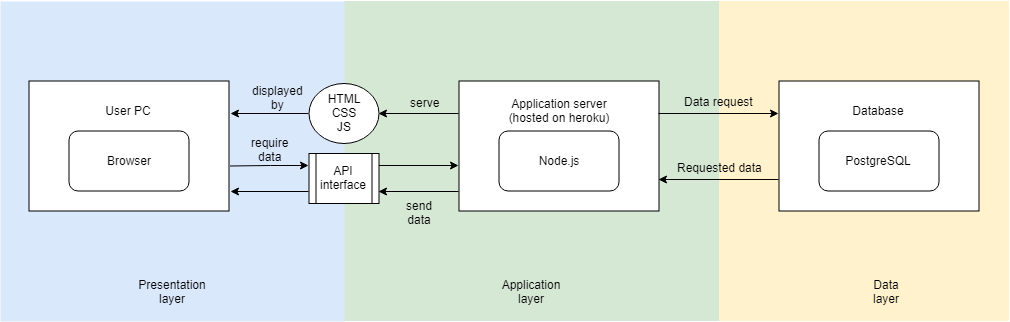
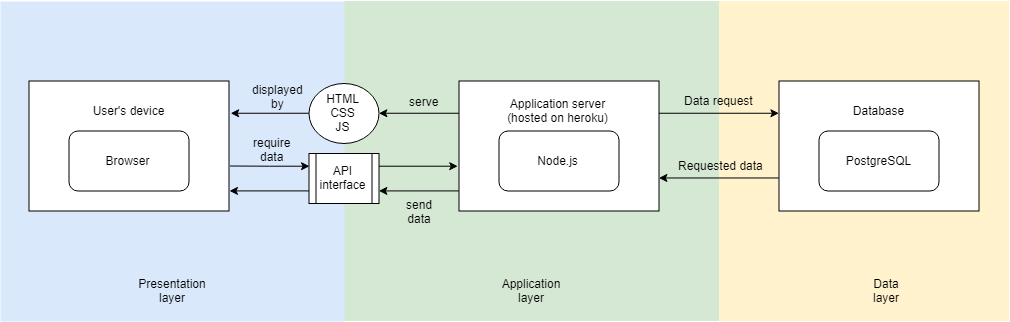
Update documentation, serve files for backend evaluation in index.js

diff --git a/index.js b/index.js
@@ -17,47 +17,57 @@ let serveStatic = require("serve-static");
 
 // swaggerRouter configuration
 var options = {
-  swaggerUi: path.join(dirToOther, '/swagger.json'),
-  controllers: path.join(dirToOther, './controllers'),
-  useStubs: process.env.NODE_ENV === 'development' // Conditionally turn on stubs (mock mode)
+    swaggerUi: path.join(dirToOther, '/swagger.json'),
+    controllers: path.join(dirToOther, './controllers'),
+    useStubs: process.env.NODE_ENV === 'development' // Conditionally turn on stubs (mock mode)
 };
 
 // override default swagger UI options
 var uiOptions = {
-    apiDocs: "/backend/spec.yaml",
+    apiDocs: "/backend/api-docs",
     swaggerUi: "/backend/swaggerui"
 };
 
 // The Swagger document (require it, build it programmatically, fetch it from a URL, ...)
-var spec = fs.readFileSync(path.join(dirToOther,'api/swagger.yaml'), 'utf8');
+var spec = fs.readFileSync(path.join(dirToOther, 'api/swagger.yaml'), 'utf8');
 var swaggerDoc = jsyaml.safeLoad(spec);
 
 // Add cookies to responses
 app.use(cookieParser());
-app.use(cookieSession({ name: "session", keys: ["abc", "def"] }));
+app.use(cookieSession({name: "session", keys: ["abc", "def"]}));
 
 // Initialize the Swagger middleware
 swaggerTools.initializeMiddleware(swaggerDoc, function (middleware) {
 
-  // Interpret Swagger resources and attach metadata to request - must be first in swagger-tools middleware chain
-  app.use(middleware.swaggerMetadata());
+    // Interpret Swagger resources and attach metadata to request - must be first in swagger-tools middleware chain
+    app.use(middleware.swaggerMetadata());
 
-  // Validate Swagger requests
-  app.use(middleware.swaggerValidator());
+    // Validate Swagger requests
+    app.use(middleware.swaggerValidator());
 
-  // Route validated requests to appropriate controller
-  app.use(middleware.swaggerRouter(options));
+    // Route validated requests to appropriate controller
+    app.use(middleware.swaggerRouter(options));
 
-  // Serve the Swagger documents and Swagger UI
-  app.use(middleware.swaggerUi(uiOptions));
+    // Serve the Swagger documents and Swagger UI
+    app.use(middleware.swaggerUi(uiOptions));
 
-  app.use(serveStatic(path.join(__dirname, "public")));
+    app.use(serveStatic(path.join(__dirname, "public")));
 
-  // Start the server
-  setupDataLayer().then(
-      http.createServer(app).listen(serverPort, function () {
-        console.log('Your server is listening on port %d (http://localhost:%d)', serverPort, serverPort);
-        console.log('Swagger-ui is available on http://localhost:%d/backend/swaggerui', serverPort);
-      })
-  );
+    app.use("/backend/spec.yaml", function (req, res) {
+        res.setHeader('Content-Type', 'text/plain');
+        fs.createReadStream(path.resolve(dirToOther, 'api/swagger.yaml')).pipe(res);
+    });
+
+    app.use("/backend/app.zip", function (req, res) {
+        res.setHeader('Content-Type', 'application/zip');
+        fs.createReadStream(path.resolve(__dirname, 'app.zip')).pipe(res);
+    });
+
+    // Start the server
+    setupDataLayer().then(
+        http.createServer(app).listen(serverPort, function () {
+            console.log('Your server is listening on port %d (http://localhost:%d)', serverPort, serverPort);
+            console.log('Swagger-ui is available on http://localhost:%d/backend/swaggerui', serverPort);
+        })
+    );
 });

diff --git a/documentation/documentation.md b/documentation/documentation.md
@@ -2,8 +2,7 @@
 | Member n. | Role | First name | Last Name | Matricola | Email address |
 |-----------|---------------|------------|-----------|-----------|-----------------|
 | 1 | administrator | Andrea | Falanti | 869429 | 10568850@polimi.it |
-| 2 | member | Andrea | Smania | ? | ?@polimi.it |
-| 3 | member | Andrea | Huang | ? | ?@polimi.it |
+| 2 | member | Andrea | Smania | 869573 | 10568809@polimi.it |
 
 ## Links to other deliverables
 - Deliverable D0: the web application is accessible at [this
@@ -29,6 +28,14 @@ layer, data layer or presentation layer. How did you ensure that HTML is
 not rendered server side?
 
 ![Web diagram](images/web_architecture.png)
+--The principal components of our website are an application server and
+a database, that can be interrogated by clients with any browser application.
+The application layer is composed by the application server, that use
+Node.js to serve static files and provide API interface for client devices.
+The data layer is composed by the database, running PostgreSQL, it's main role
+is providing data requested by clients with API calls. Data layer and Application
+layer are hosted on heroku, while presentation layer runs on client devices,
+displaying assets with a browser. 
 
 ### API
 
